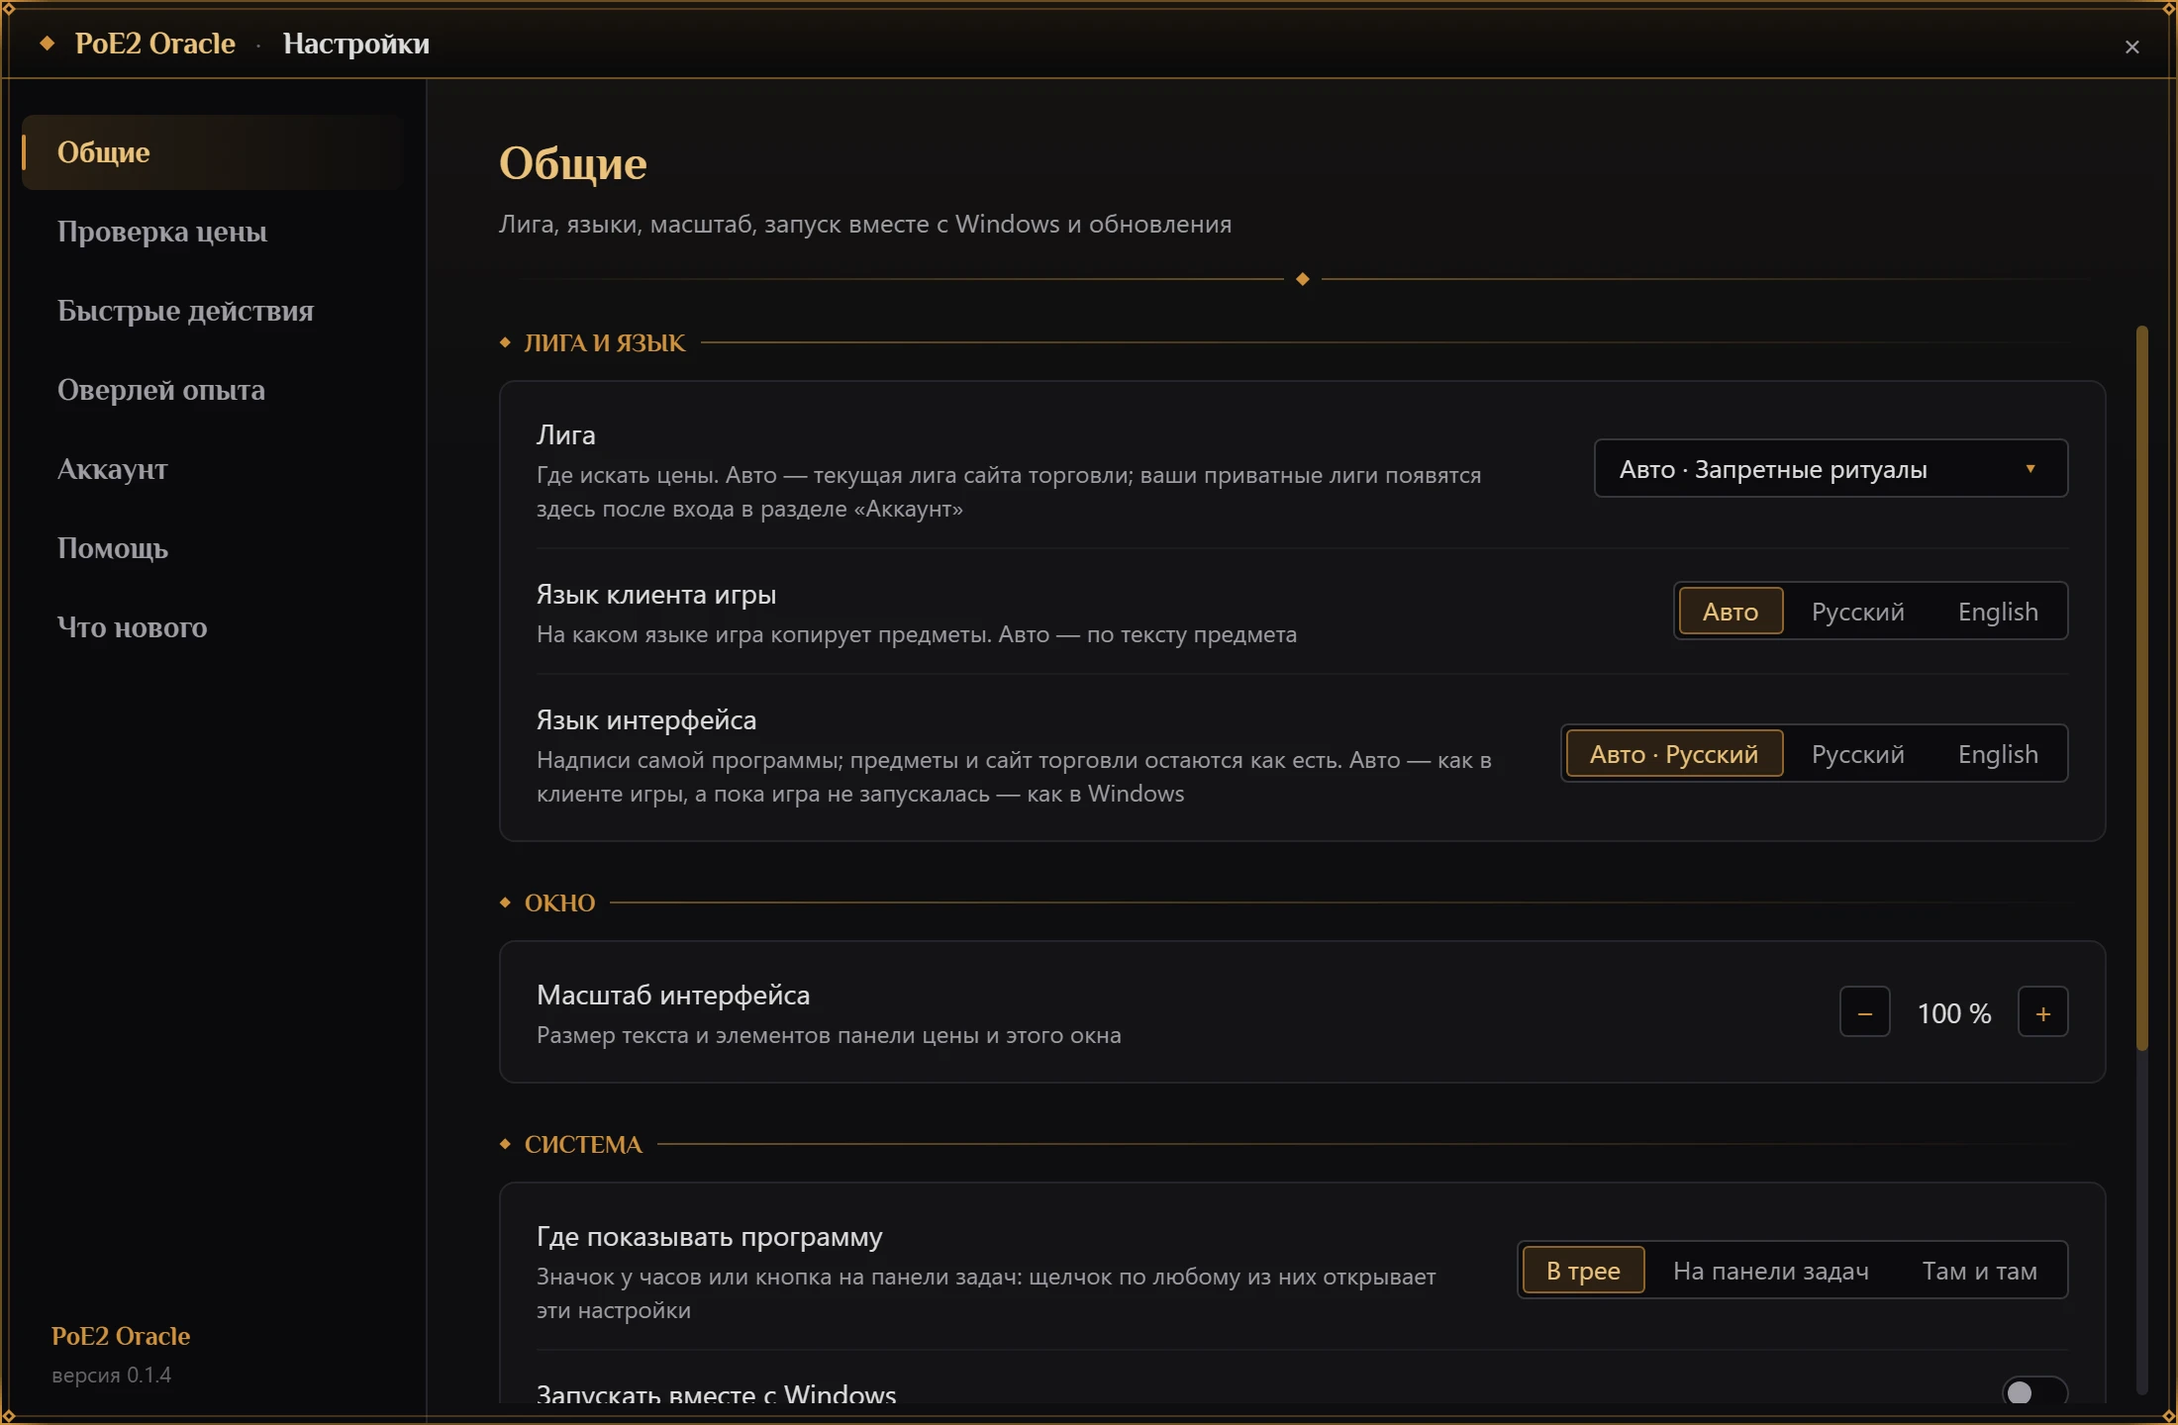
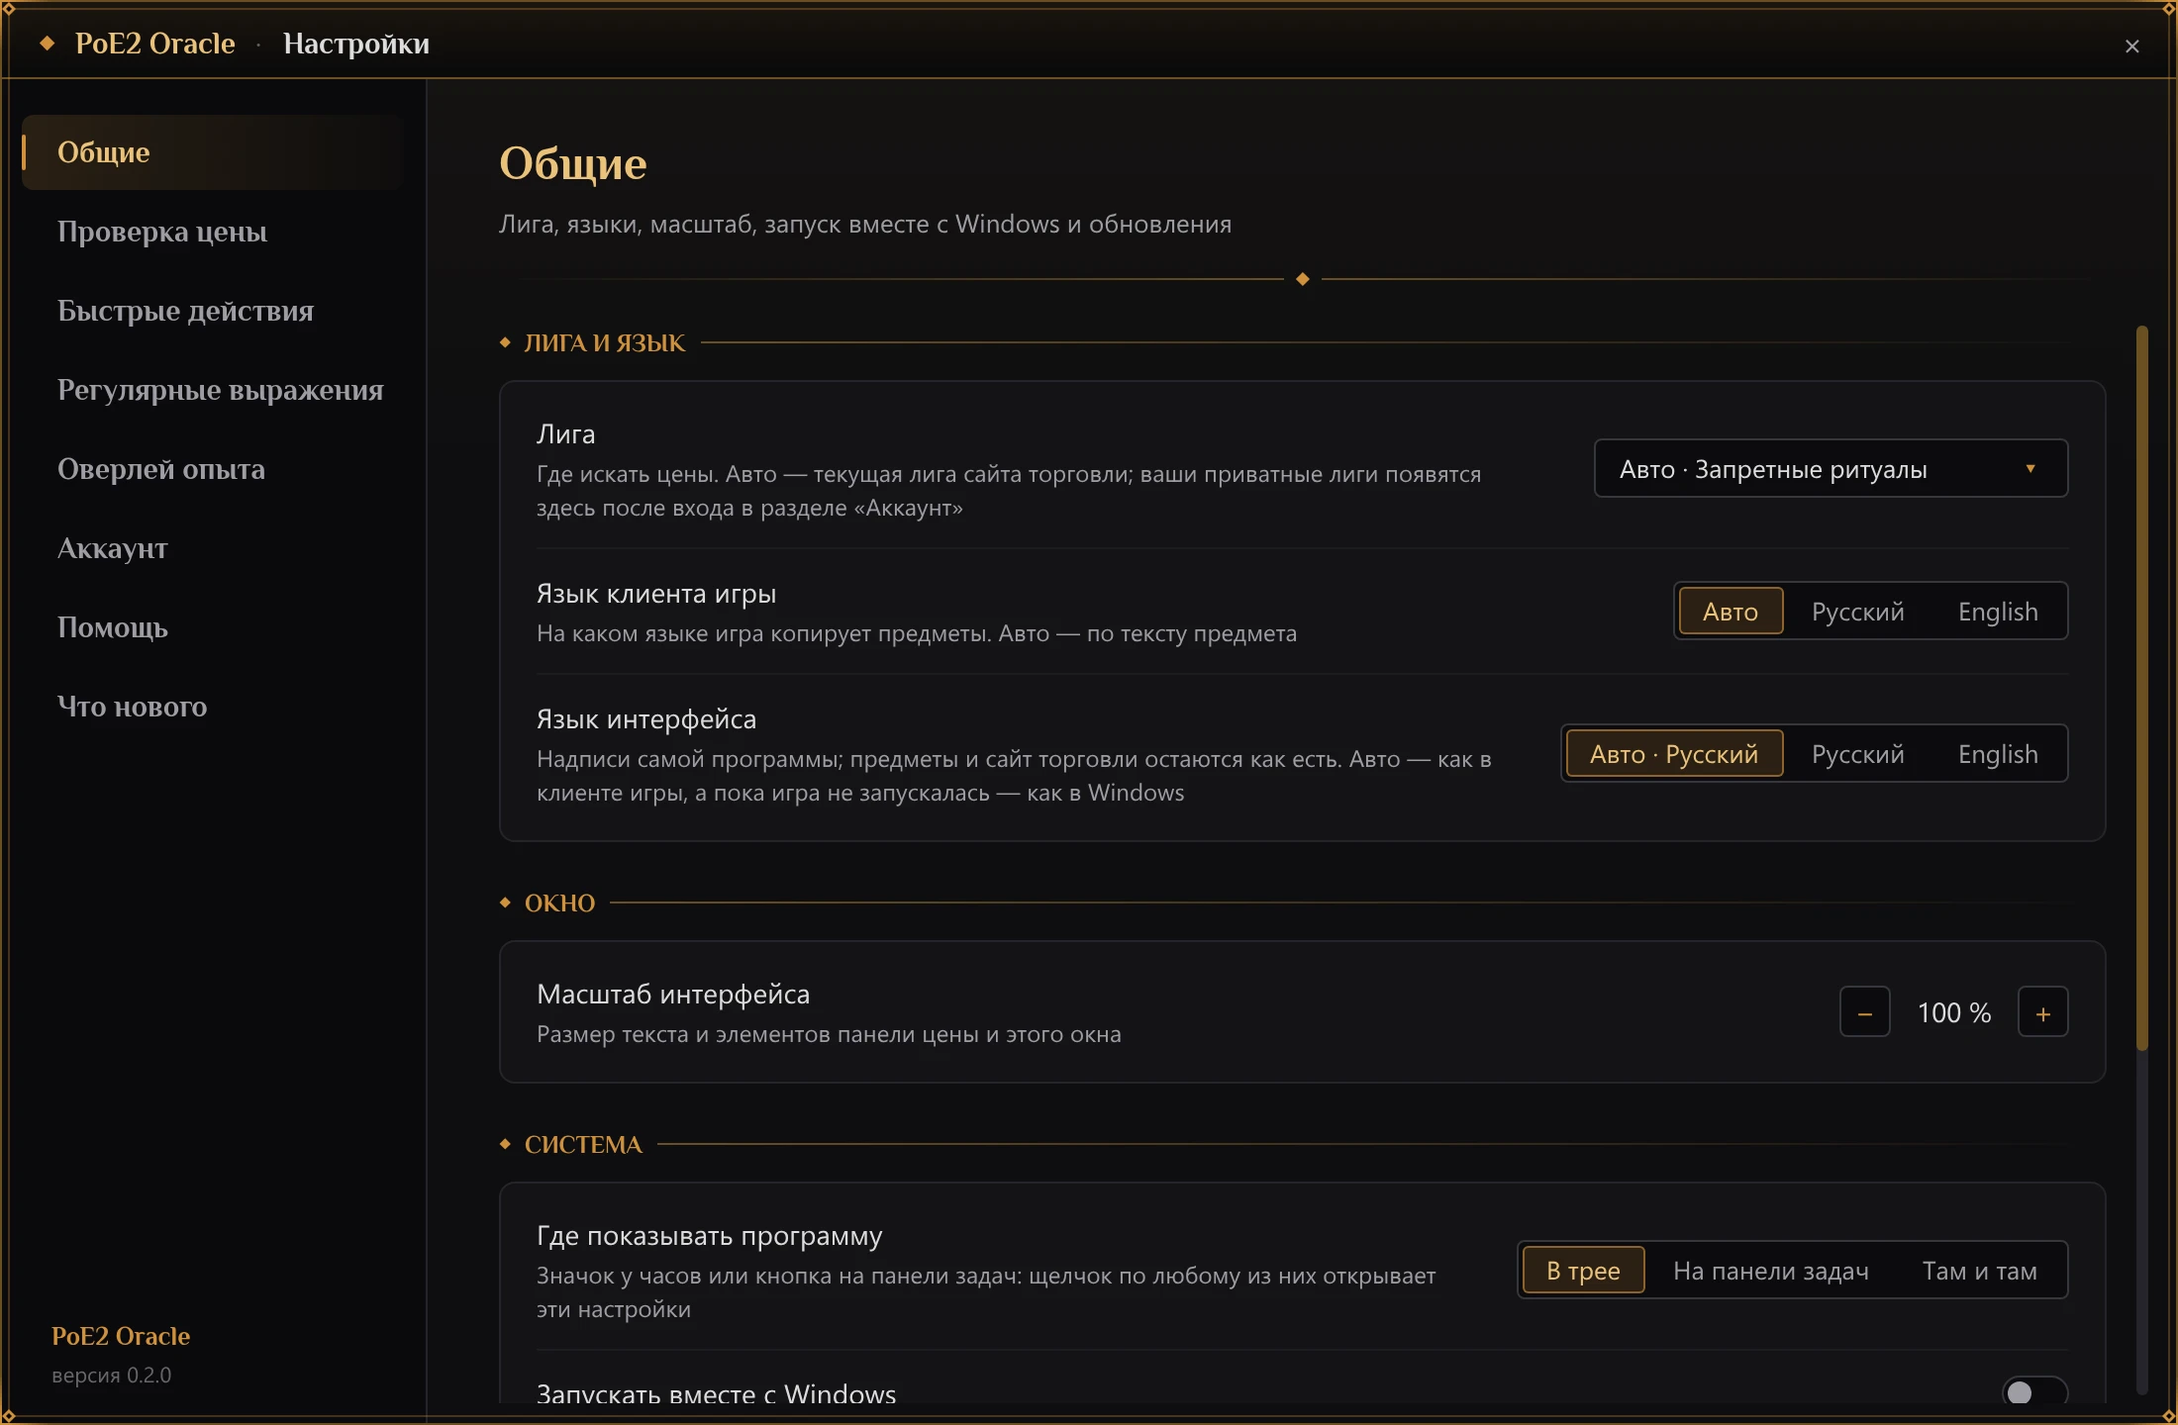
site: the landing pages show the regular expressions, with a drawing of the new section: a saved search gets a key of its own or a copy button, and the settings drawing follows the app (the new section in the sidebar, version 0.2.0, game data 2026101202); the guide shows the section too, and its pic

diff --git a/site/ru/index.html b/site/ru/index.html
@@ -207,10 +207,30 @@
           <p>Выберите лигу, горячую клавишу, каких продавцов искать по умолчанию — с мгновенным выкупом,
             онлайн или всех — и масштаб интерфейса. Быстрые действия отправляют команду чата вроде
             <code>/hideout</code> или вставляют строку поиска в тайнике по нажатию удобной клавиши: одно
-            нажатие — одна команда.</p>
+            нажатие — одна команда. Регулярные выражения, которыми вы ищете в тайнике, сохраняются
+            в том же окне, и у каждого может быть своя клавиша.</p>
         </div>
         <figure class="feature-media">
           <div data-oracle="settings" data-lang="ru" data-fit data-alt="Окно настроек PoE2 Oracle"></div>
+        </figure>
+      </article>
+
+      <article class="feature">
+        <div class="feature-text">
+          <h3><span class="feature-name">Регулярные выражения</span><span class="visually-hidden">: </span>Ваши
+            поиски по тайнику — сохранённые и на одной клавише</h3>
+          <p>Сохраните регулярные выражения, которыми ищете в тайнике, — например, собранные в poe2.re, —
+            и назначьте каждому клавишу. Нажмите её — и текст сам попадёт в поле поиска игры: поиск
+            напечатается, предметы подсветятся, а игра продолжится.</p>
+          <ul>
+            <li>Строка поиска и название по вашему выбору, всего до 64</li>
+            <li>Клавиша работает, только пока впереди игра, как и все прочие клавиши программы</li>
+            <li>Без клавиши кнопка <strong>Скопировать в буфер</strong> кладёт строку поиска в буфер
+              обмена — вставьте её куда хотите</li>
+          </ul>
+        </div>
+        <figure class="feature-media">
+          <div data-oracle="settings" data-set="settings.regexes" data-lang="ru" data-fit data-alt="Окно настроек PoE2 Oracle, раздел «Регулярные выражения» с двумя сохранёнными поисками, у одного — клавиша"></div>
         </figure>
       </article>
     </div>

diff --git a/site/ui/settings.js b/site/ui/settings.js
@@ -48,7 +48,7 @@ export async function render(data) {
     const shown = {
         ...data,
         version: named(data.version),
-        groups: data.groups.map((group) => ({
+        groups: (data.groups ?? []).map((group) => ({
             ...group,
             rows: group.rows.map((row) => ({ ...row, label: named(row.label) })),
         })),
@@ -101,7 +101,7 @@ function sidebar(data) {
 }
 
 function page(data) {
-    const groups = h("div", "oui-settings-page", data.groups.map(group));
+    const groups = h("div", "oui-settings-page", data.list ? list(data.list) : data.groups.map(group));
     const thumb = h("span", "oui-settings-thumb");
     const bar = h("span", { class: "oui-settings-bar", hidden: true }, thumb);
     groups.append(bar);
@@ -117,6 +117,48 @@ function page(data) {
             h("div", "oui-settings-rule", ornamentRule()),
         ),
         groups,
+    );
+}
+
+/**
+ * A list section -- the regular expressions: what they are and how they get in, then a row each
+ * (its name, its search string, its key, the copy button and the ×) and the button that adds one.
+ */
+function list({ intro, name_placeholder, empty_key, copy, add, rows }) {
+    return h(
+        "div",
+        "oui-settings-list",
+        h("div", "oui-settings-list-intro", intro),
+        h(
+            "div",
+            "oui-card",
+            rows.flatMap((row, index) => [
+                index > 0 && h("div", "oui-settings-hairline"),
+                regexRow(row, { name_placeholder, empty_key, copy }),
+            ]),
+        ),
+        h("div", "oui-settings-list-add", button(add)),
+    );
+}
+
+/** A regular expression's row: its name, its search string, its key, the copy button and the ×. */
+function regexRow({ name, text, keys }, { name_placeholder, empty_key, copy }) {
+    return h(
+        "div",
+        "oui-settings-regex",
+        h(
+            "span",
+            { class: "oui-settings-field oui-settings-field--name" },
+            name ? h("span", null, name) : h("span", "oui-settings-muted", name_placeholder),
+        ),
+        h("span", { class: "oui-settings-field oui-settings-field--text" }, h("span", null, text)),
+        h(
+            "span",
+            "oui-settings-recorder",
+            keys?.length ? keycaps(keys) : h("span", "oui-settings-muted", empty_key),
+        ),
+        button(copy),
+        h("span", "oui-settings-remove", "×"),
     );
 }
 

diff --git a/site/index.html b/site/index.html
@@ -204,10 +204,31 @@
             it yours, and send /hideout with one&nbsp;key</h3>
           <p>Pick the league, the hotkey, which sellers to search by default (Instant Buyout, online or
             all) and the interface scale. Quick actions send a chat command such as <code>/hideout</code>,
-            or type a stash search, on a key of your choice: one press, one command.</p>
+            or type a stash search, on a key of your choice: one press, one command. The regular
+            expressions you search your stash with are saved in the same window, each with a key of
+            its own.</p>
         </div>
         <figure class="feature-media">
           <div data-oracle="settings" data-lang="en" data-fit data-alt="The PoE2 Oracle settings window"></div>
+        </figure>
+      </article>
+
+      <article class="feature">
+        <div class="feature-text">
+          <h3><span class="feature-name">Regular expressions</span><span class="visually-hidden">: </span>Your
+            stash searches, saved and one key away</h3>
+          <p>Save the regular expressions you search your stash with — the ones poe2.re builds, for one —
+            and give each a key. Press the key and the text goes into the game's search box by itself:
+            the search is typed, the items match, and the game keeps playing.</p>
+          <ul>
+            <li>The search string and a name of your own, up to 64 of them</li>
+            <li>The key works only while the game is in front, like every other key of the app</li>
+            <li>Without a key, <strong>Copy to clipboard</strong> puts the search string into the
+              clipboard, and you paste it where you want it</li>
+          </ul>
+        </div>
+        <figure class="feature-media">
+          <div data-oracle="settings" data-set="settings.regexes" data-lang="en" data-fit data-alt="The PoE2 Oracle settings window, the Regular expressions section with two saved searches, one of them with a key"></div>
         </figure>
       </article>
     </div>

diff --git a/site/ui/settings.css b/site/ui/settings.css
@@ -357,3 +357,55 @@
 .oui-settings-muted {
     color: var(--text-muted);
 }
+
+/* A list section -- the regular expressions: what they are, a row each and the button that adds
+   one (the app's own section, crates/poe2-oracle/src/ui/settings_view.rs). */
+.oui-settings-list {
+    display: flex;
+    flex: none;
+    flex-direction: column;
+    gap: calc(10 * var(--u));
+}
+
+.oui-settings-list-intro {
+    color: var(--text-dim);
+    font-size: calc(13 * var(--u));
+    line-height: calc(20 * var(--u));
+}
+
+.oui-settings-list-add {
+    display: flex;
+}
+
+/* A regular expression's row: its name, its search string, its key, the copy button and the ×. */
+.oui-settings-regex {
+    display: flex;
+    align-items: center;
+    gap: calc(10 * var(--u));
+    padding: calc(10 * var(--u)) calc(12 * var(--u));
+}
+
+.oui-settings-field--name {
+    flex: 1 1 0;
+    width: auto;
+    min-width: 0;
+}
+
+.oui-settings-field--text {
+    flex: 2 1 0;
+    width: auto;
+    min-width: 0;
+}
+
+/* The × that removes the row (style.rs's `icon_button`). */
+.oui-settings-remove {
+    display: flex;
+    flex: none;
+    align-items: center;
+    justify-content: center;
+    width: calc(26 * var(--u));
+    height: calc(26 * var(--u));
+    border-radius: var(--control-radius);
+    color: var(--text-dim);
+    font-size: calc(15 * var(--u));
+}

diff --git a/site/ui/shots.html b/site/ui/shots.html
@@ -27,6 +27,8 @@
   <div data-shot="xp-overlay" data-lang="ru" data-oracle="xp"></div>
   <div data-shot="settings" data-lang="en" data-oracle="settings"></div>
   <div data-shot="settings" data-lang="ru" data-oracle="settings"></div>
+  <div data-shot="regular-expressions" data-lang="en" data-oracle="settings" data-set="settings.regexes"></div>
+  <div data-shot="regular-expressions" data-lang="ru" data-oracle="settings" data-set="settings.regexes"></div>
   <script type="module" src="oracle-ui.js"></script>
 </body>
 </html>

diff --git a/CONTRIBUTING.ru.md b/CONTRIBUTING.ru.md
@@ -421,6 +421,16 @@ python3 packaging/data/generate_cx_ids.py <папка RePoE>/base_items.json sta
 `site/ui/data/<часть>.<en|ru>.json`. Чтобы показать другой предмет или другие числа, правьте JSON;
 если меняется вид программы, меняйте и её рисунок в том же пулл-реквесте.
 
+**Всё, что меняет то, что видит игрок, идёт вместе с рисунками.** Новый раздел, новая строка,
+новая кнопка, переименованное слово, новая версия программы или новая версия игровых данных:
+рисунки идут за программой, а не наоборот, и устаревший рисунок — это ложь на странице сайта.
+Поэтому после такого изменения, в том же пулл-реквесте:
+
+- пройдите по всем рисункам в `site/ui/data/` и сверьте их с программой, которую они рисуют: слова,
+  строки и кнопки, названную версию и версию игровых данных, разделы в списке слева;
+- поправьте рисунок (или его данные) под программу — на обоих языках;
+- сохраните картинки заново (ниже), чтобы руководство и README показали новые.
+
 README и руководство показывают те же рисунки картинками. После изменения рисунка или его данных
 сохраните их заново (Node 22 или новее и Chrome или Chromium; если его нет в `PATH`, путь к нему —
 в переменной `CHROME`):

diff --git a/CONTRIBUTING.md b/CONTRIBUTING.md
@@ -407,6 +407,16 @@ three of them together. Each is drawn in HTML and CSS after the app's own widget
 `site/ui/data/<part>.<en|ru>.json`. To show another item or other numbers, edit the JSON; when the
 app's look changes, change its drawing in the same pull request.
 
+**Every change that touches what the player sees goes with the drawings.** A new section, a new
+row, a new button, a renamed word, a new app version or a new game data version: the drawings
+follow the app, not the other way round, and a drawing that is out of date is a lie on the landing
+page. So after such a change, in the same pull request:
+
+- walk every drawing in `site/ui/data/` against the app it draws -- the words it shows, the rows and
+  controls it has, the version and the data version it names, the sections it lists in the sidebar;
+- change the drawing (or its data) to match, in both languages;
+- re-render the pictures (below), and let the guide and the README show the new ones.
+
 The README and the guide show the same drawings as images. After changing a drawing or its data,
 save them again (Node 22 or newer, and Chrome or Chromium; `CHROME` points to it if it's not on
 `PATH`):

diff --git a/docs/guide/src/en/quick-actions.md b/docs/guide/src/en/quick-actions.md
@@ -50,6 +50,8 @@ poe2.re build such strings for you.
 
 ## Regular expressions
 
+![The settings window, the Regular expressions section](../images/en/regular-expressions.webp)
+
 Regular expressions are the stash (or a vendor's) search strings you save to stop typing them
 every time — the ones poe2.re builds, for one. Set them up in the [settings](settings.md), section
 **Regular expressions**: each has a name (optional; without one the search string itself names it),
